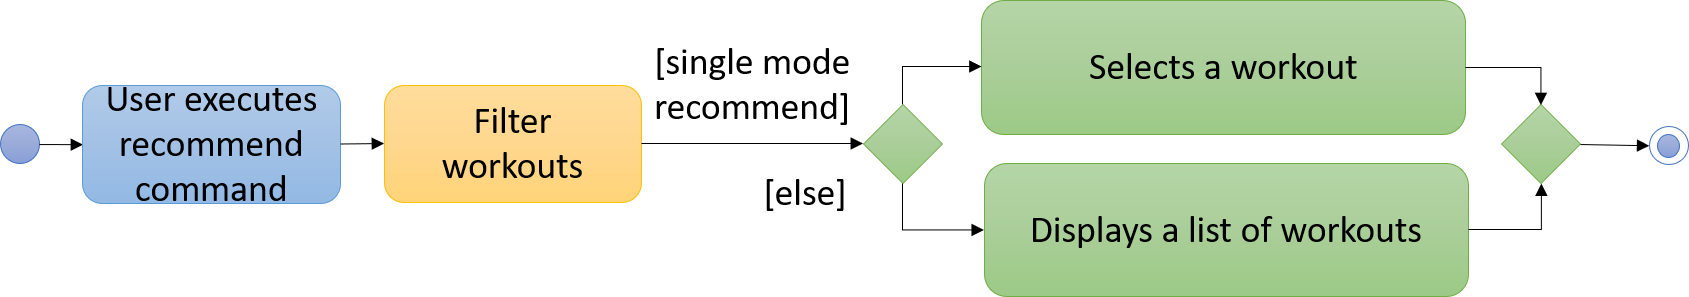
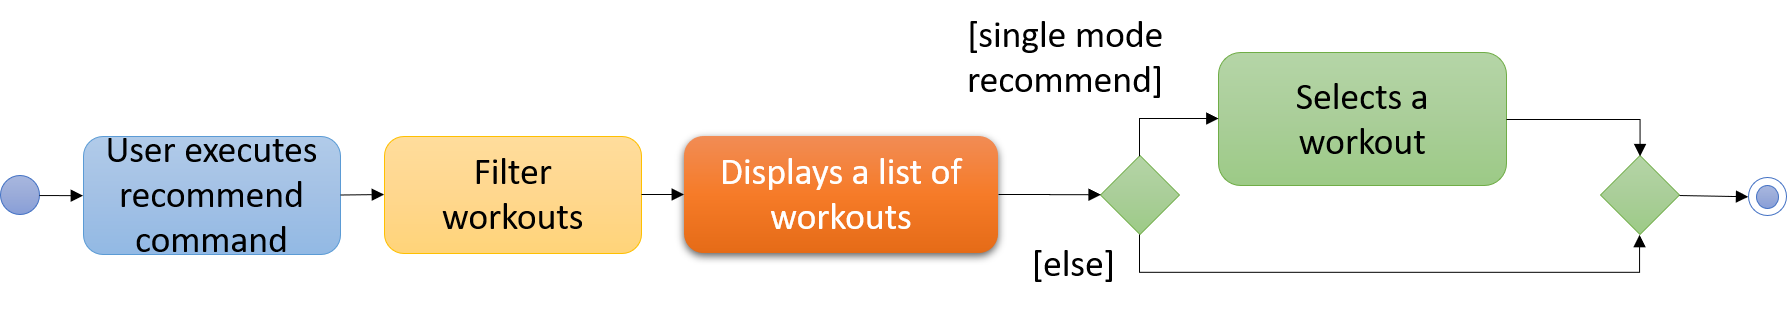
Update UserGuide and DeveloperGuide

diff --git a/src/test/java/seedu/address/logic/commands/RecommendCommandIntegrationTest.java b/src/test/java/seedu/address/logic/commands/RecommendCommandIntegrationTest.java
@@ -50,6 +50,10 @@ public class RecommendCommandIntegrationTest {
         Model expectedModel = new ModelManager(model.getWorkoutBook(), model.getTrackedDataList(),
                 model.getTrackedData(), new UserPrefs());
 
+        List<Workout> filteredInternalList = expectedModel.getFinalFilteredInternalList(validRecommendArguments);
+        WorkoutsPredicate workoutsPredicate = new WorkoutsPredicate(filteredInternalList);
+        expectedModel.updateFilteredWorkoutList(workoutsPredicate);
+
         assertCommandSuccess(new RecommendCommand(validRecommendArguments), model, commandHistory,
                 RecommendCommand.MESSAGE_SUCCESS, expectedModel);
 
@@ -64,11 +68,11 @@ public class RecommendCommandIntegrationTest {
         expectedModel = new ModelManager(model.getWorkoutBook(), model.getTrackedDataList(),
                 model.getTrackedData(), new UserPrefs());
 
-        List<Workout> filteredInternalList = expectedModel.getFinalFilteredInternalList(validRecommendArguments);
+        filteredInternalList = expectedModel.getFinalFilteredInternalList(validRecommendArguments);
         int multipleInteger = validRecommendArguments.getMode()
                 .getMultipleInteger(validRecommendArguments.getMode().toString());
         List<Workout> subFilteredInternalList = filteredInternalList.subList(0, multipleInteger);
-        WorkoutsPredicate workoutsPredicate = new WorkoutsPredicate(subFilteredInternalList);
+        workoutsPredicate = new WorkoutsPredicate(subFilteredInternalList);
         expectedModel.updateFilteredWorkoutList(workoutsPredicate);
 
         assertCommandSuccess(new RecommendCommand(validRecommendArguments), model, commandHistory,
@@ -124,6 +128,7 @@ public class RecommendCommandIntegrationTest {
                 .withDifficulty(difficulty, Optional.of(false))
                 .withDuration(duration, Optional.of(false))
                 .withMode(mode).build();
+
         assertCommandFailure(new RecommendCommand(noMatchRecommendArguments), model, commandHistory,
                 RecommendCommand.MESSAGE_NO_SUCH_WORKOUT);
     }

diff --git a/src/main/java/seedu/address/logic/commands/RecommendCommand.java b/src/main/java/seedu/address/logic/commands/RecommendCommand.java
@@ -9,6 +9,7 @@ import static seedu.address.logic.parser.CliSyntax.PREFIX_MODE;
 import static seedu.address.logic.parser.CliSyntax.PREFIX_OPTIONAL_CALORIES;
 import static seedu.address.logic.parser.CliSyntax.PREFIX_OPTIONAL_DIFFICULTY;
 import static seedu.address.logic.parser.CliSyntax.PREFIX_OPTIONAL_DURATION;
+import static seedu.address.model.Model.PREDICATE_SHOW_ALL_WORKOUTS;
 
 import java.util.List;
 import java.util.Random;
@@ -79,6 +80,8 @@ public class RecommendCommand extends Command {
         }
 
         if (isModeSingleOrNull(recommendArguments)) {
+            WorkoutsPredicate workoutsPredicate = new WorkoutsPredicate(filteredInternalList);
+            model.updateFilteredWorkoutList(workoutsPredicate);
             int targetIndex = getTargetIndex(filteredWorkoutList, filteredInternalList);
             EventsCenter.getInstance().post(new JumpToRecommendListRequestEvent(targetIndex));
         } else {
